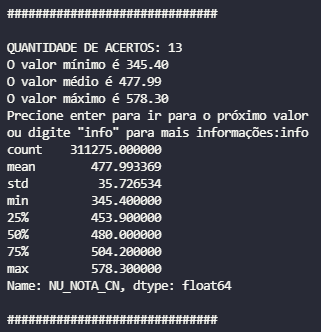
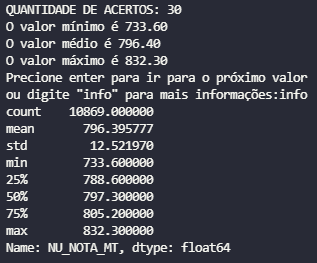
Reduzindo o tempo de execução e mudando para matemática

Changed region(s): [[0.0, 0.0, 0.9653, 1.0], [0.5678, 0.8213, 0.7382, 0.8821]]

diff --git a/FuncoesDados.py b/FuncoesDados.py
@@ -13,11 +13,15 @@ class MicrodadosENEM:
         if ler_microdados:
             print("Importando...")
             self.microdados = pd.read_csv(nome, sep=';', encoding='latin-1', usecols=colunas)
+            # Lê os microdados
             print("Importado")
         else:
             self.microdados = microdados
         # Divide em duas partes porque em uma parte do código será preciso criar uma objeto
         # sem fazer a leitura de um arquivo
+        self.quantAcertos = []
+        # Cria uma lista para ser preenchidda em outra função com a quantidade de acertos
+        # e depois adicionada nos microdados
 
     def _localiza_valor_nos_microdados(self, num):
         return self.microdados.loc[self.microdados['CO_PROVA_MT'] == num]
@@ -47,23 +51,24 @@ class MicrodadosENEM:
     def _cria_nova_noluna(self, nome_da_coluna):
         self.microdados.loc[:, nome_da_coluna] = NaN
 
-    @staticmethod
-    def _calc_quest_acertadas(gabarito, respostas):
+    def _calc_quest_acertadas(self, i):
         cont = 0
+        respostas = self.microdados.iloc[i]["TX_GABARITO_MT"]
+        gabarito = self.microdados.iloc[i]["TX_RESPOSTAS_MT"]
         for i in range(0, len(respostas)):
             if respostas[i] == gabarito[i]:
                 # Se a resposta e o gabarito for o mesmo soma 1 na contagem
                 cont += 1
-        return cont
+        self.quantAcertos.append(cont)
 
     def calc_quest_acertadas_total(self):
-        self._cria_nova_noluna("QuestAcertadas")
         quantidade_de_linhas = self.microdados.loc[:, "CO_PROVA_MT"].count()
         for i in tqdm(range(0, quantidade_de_linhas)):
-            self.microdados.loc[i, 'QuestAcertadas'] = self._calc_quest_acertadas(
-                self.microdados.iloc[i]["TX_GABARITO_MT"],
-                self.microdados.iloc[i]["TX_RESPOSTAS_MT"])
+            # O tqdm é para criar a barra de progresso
+            self._calc_quest_acertadas(i)
             # Para cada linha calcula a quantidade de questões acertadas usando a função
+        self.microdados['QuestAcertadas'] = self.quantAcertos
+        # Coloca a lista nos microdados
 
     @staticmethod
     def _mostrar_resultado_com_info(microdados):

diff --git a/1 PARTE Filtrando os dados.py b/1 PARTE Filtrando os dados.py
@@ -23,6 +23,7 @@ diferente), também é usada para calcular a quantidade de acertos
 # Mais informações estão no Dicionário disponível junto com os microdados
 
 microdados = FuncoesDados.MicrodadosENEM("MICRODADOS_ENEM_2019.csv", ColunasMatematica)
+# Inicia a objeto lendo os microdados
 
 ListaDeUsados = [515, 516, 517, 518, 522, 526]
 # Lista com os valores para serem usados, cada um indica o código referente a

diff --git a/2 PARTE Calculando o numero de acertos.py b/2 PARTE Calculando o numero de acertos.py
@@ -2,9 +2,8 @@ import FuncoesDados
 
 # Segunda parte para calcular a quantidade de acertos
 
-
 microdados = FuncoesDados.MicrodadosENEM("MicrodadosFiltrados.csv")
-#print(type(microdados.microdados))
+
 print("Iniciando o calculo:")
 microdados.calc_quest_acertadas_total()
 print("Processo concluído. O resultado é:")

diff --git a/README.md b/README.md
@@ -22,10 +22,10 @@ No código, eu tentei implementar a Orientação à objeto para treinar o que eu
 ## Informações para executar
 Para executar é preciso ter o python e a bibliotaca do pandas instalados. Além de ter os microdados no mesmo local que o arquivo do python.
 
-O arquivo que mais demora para concluir é o segundo que precisa executar a função para calcular a quantidade de acertos 3707811 vezes. Para testar se estava funcionando deixei um notebook antigo ligado por mais de 6 dias.
+O arquivo que mais demora para concluir é o segundo que precisa de, em torno, de 17 mim. Numa primeira versão do código demorava uns 6 dias para concluir, mas eu descobri que eu implementei errado o .iloc do Pandas, quando usei outra lógica o tempo diminuiu muito
 
 Uma dica para quem converter o arquivo .py para .exe é que quando o programa executar vai salvar o resultado num arquivo e modifica-lo, nesse processo alguns anti-vírus costumam bloquear a ação e isso gera um erro no código.
 ## Resultado
-Ao final dos passos o resultado para 13 acertos em uma matéria qualquer, por exemplo, é:
+Ao final dos passos o resultado para 30 acertos em matemática, por exemplo, é:
 
 ![Screenshot](Screenshot.png)
